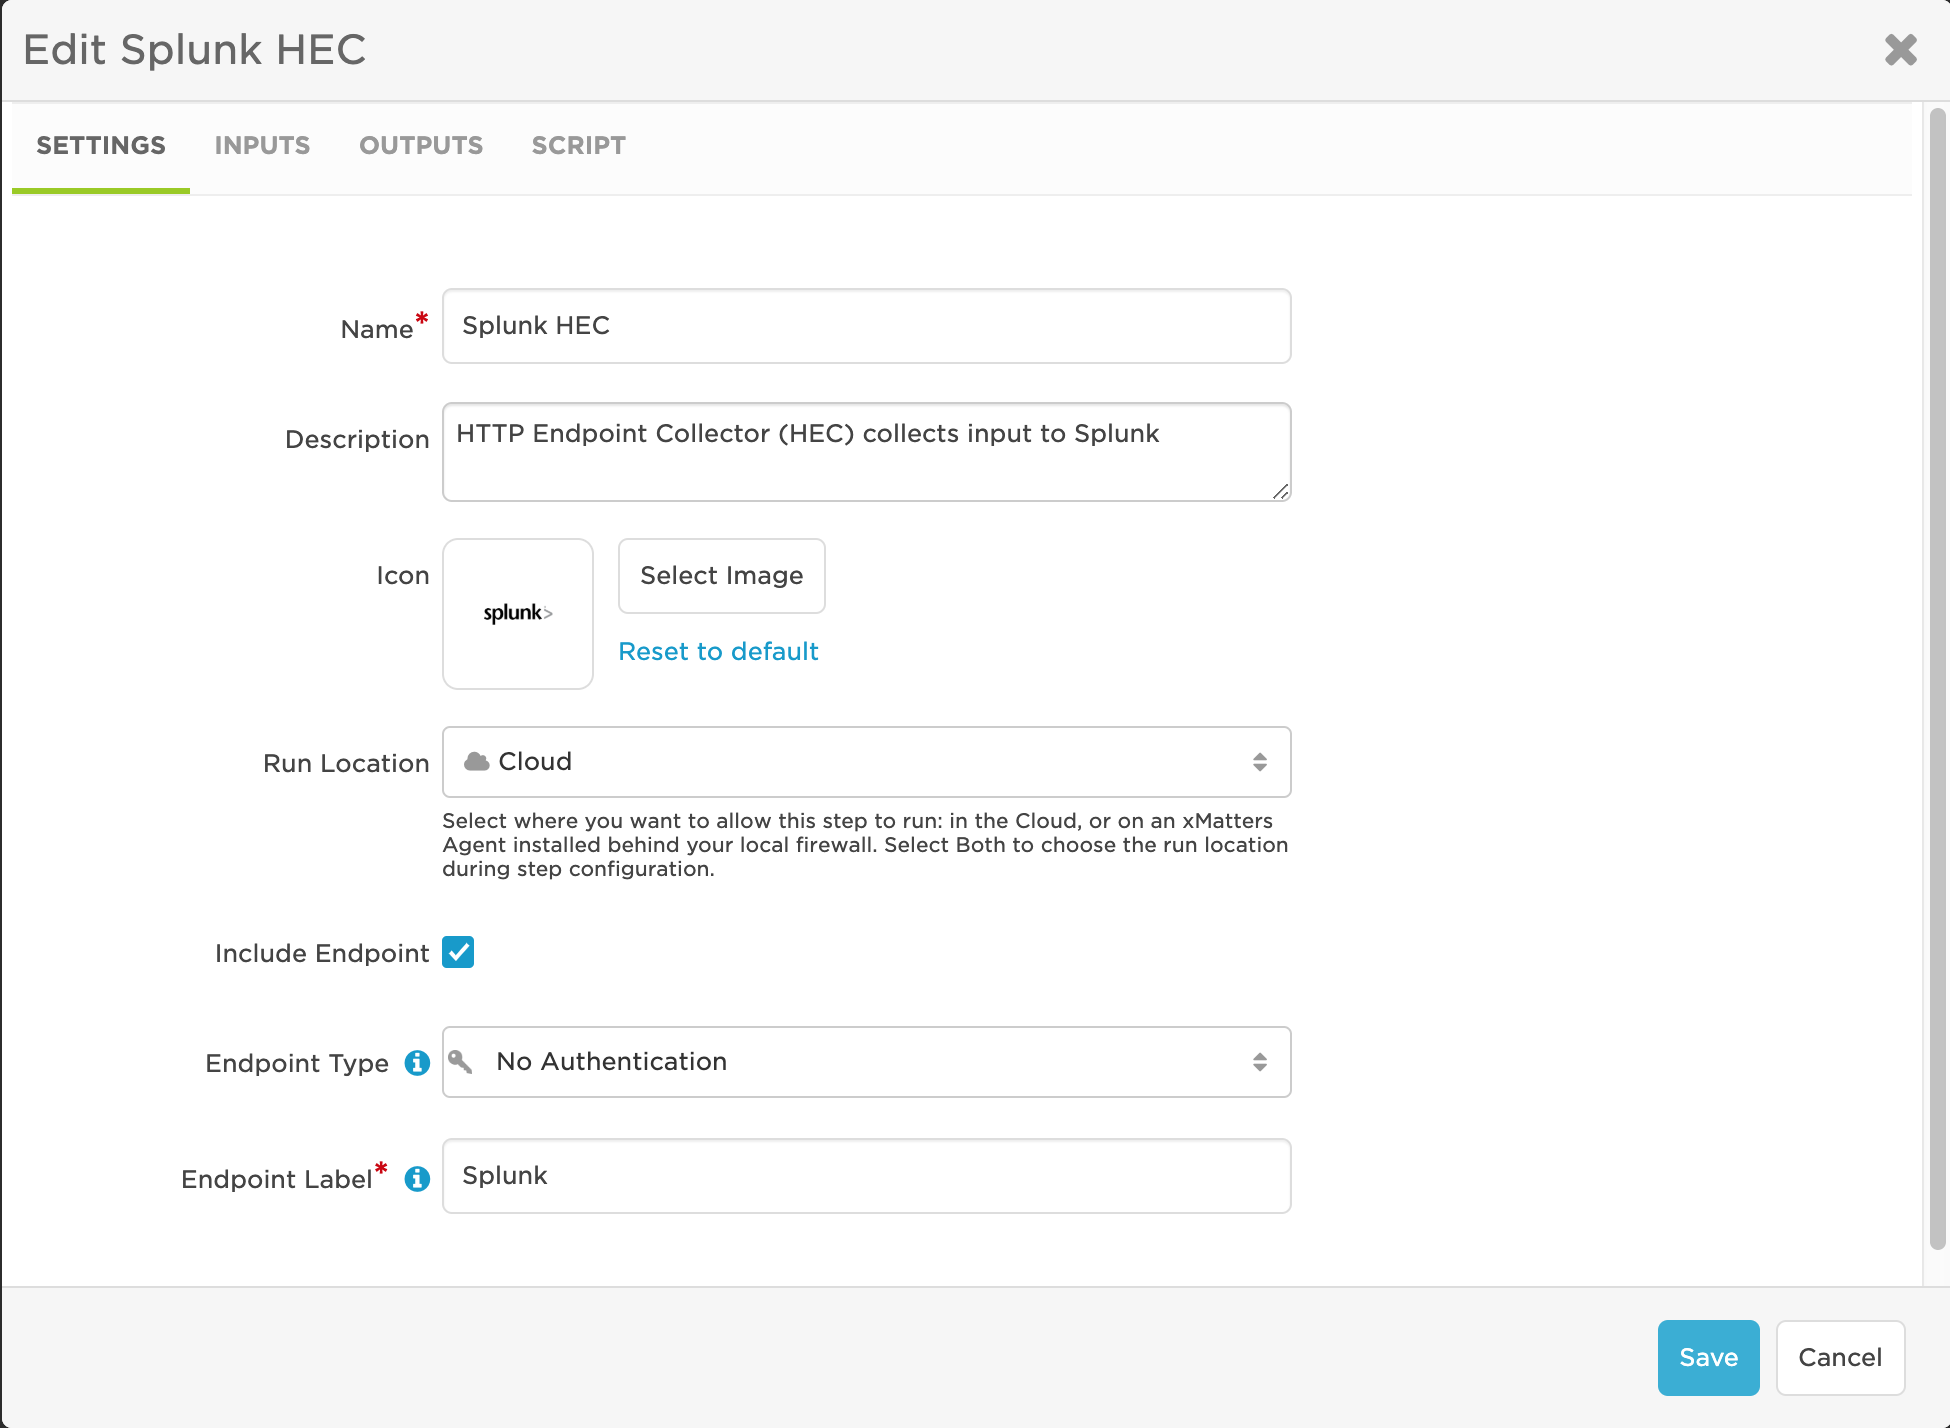
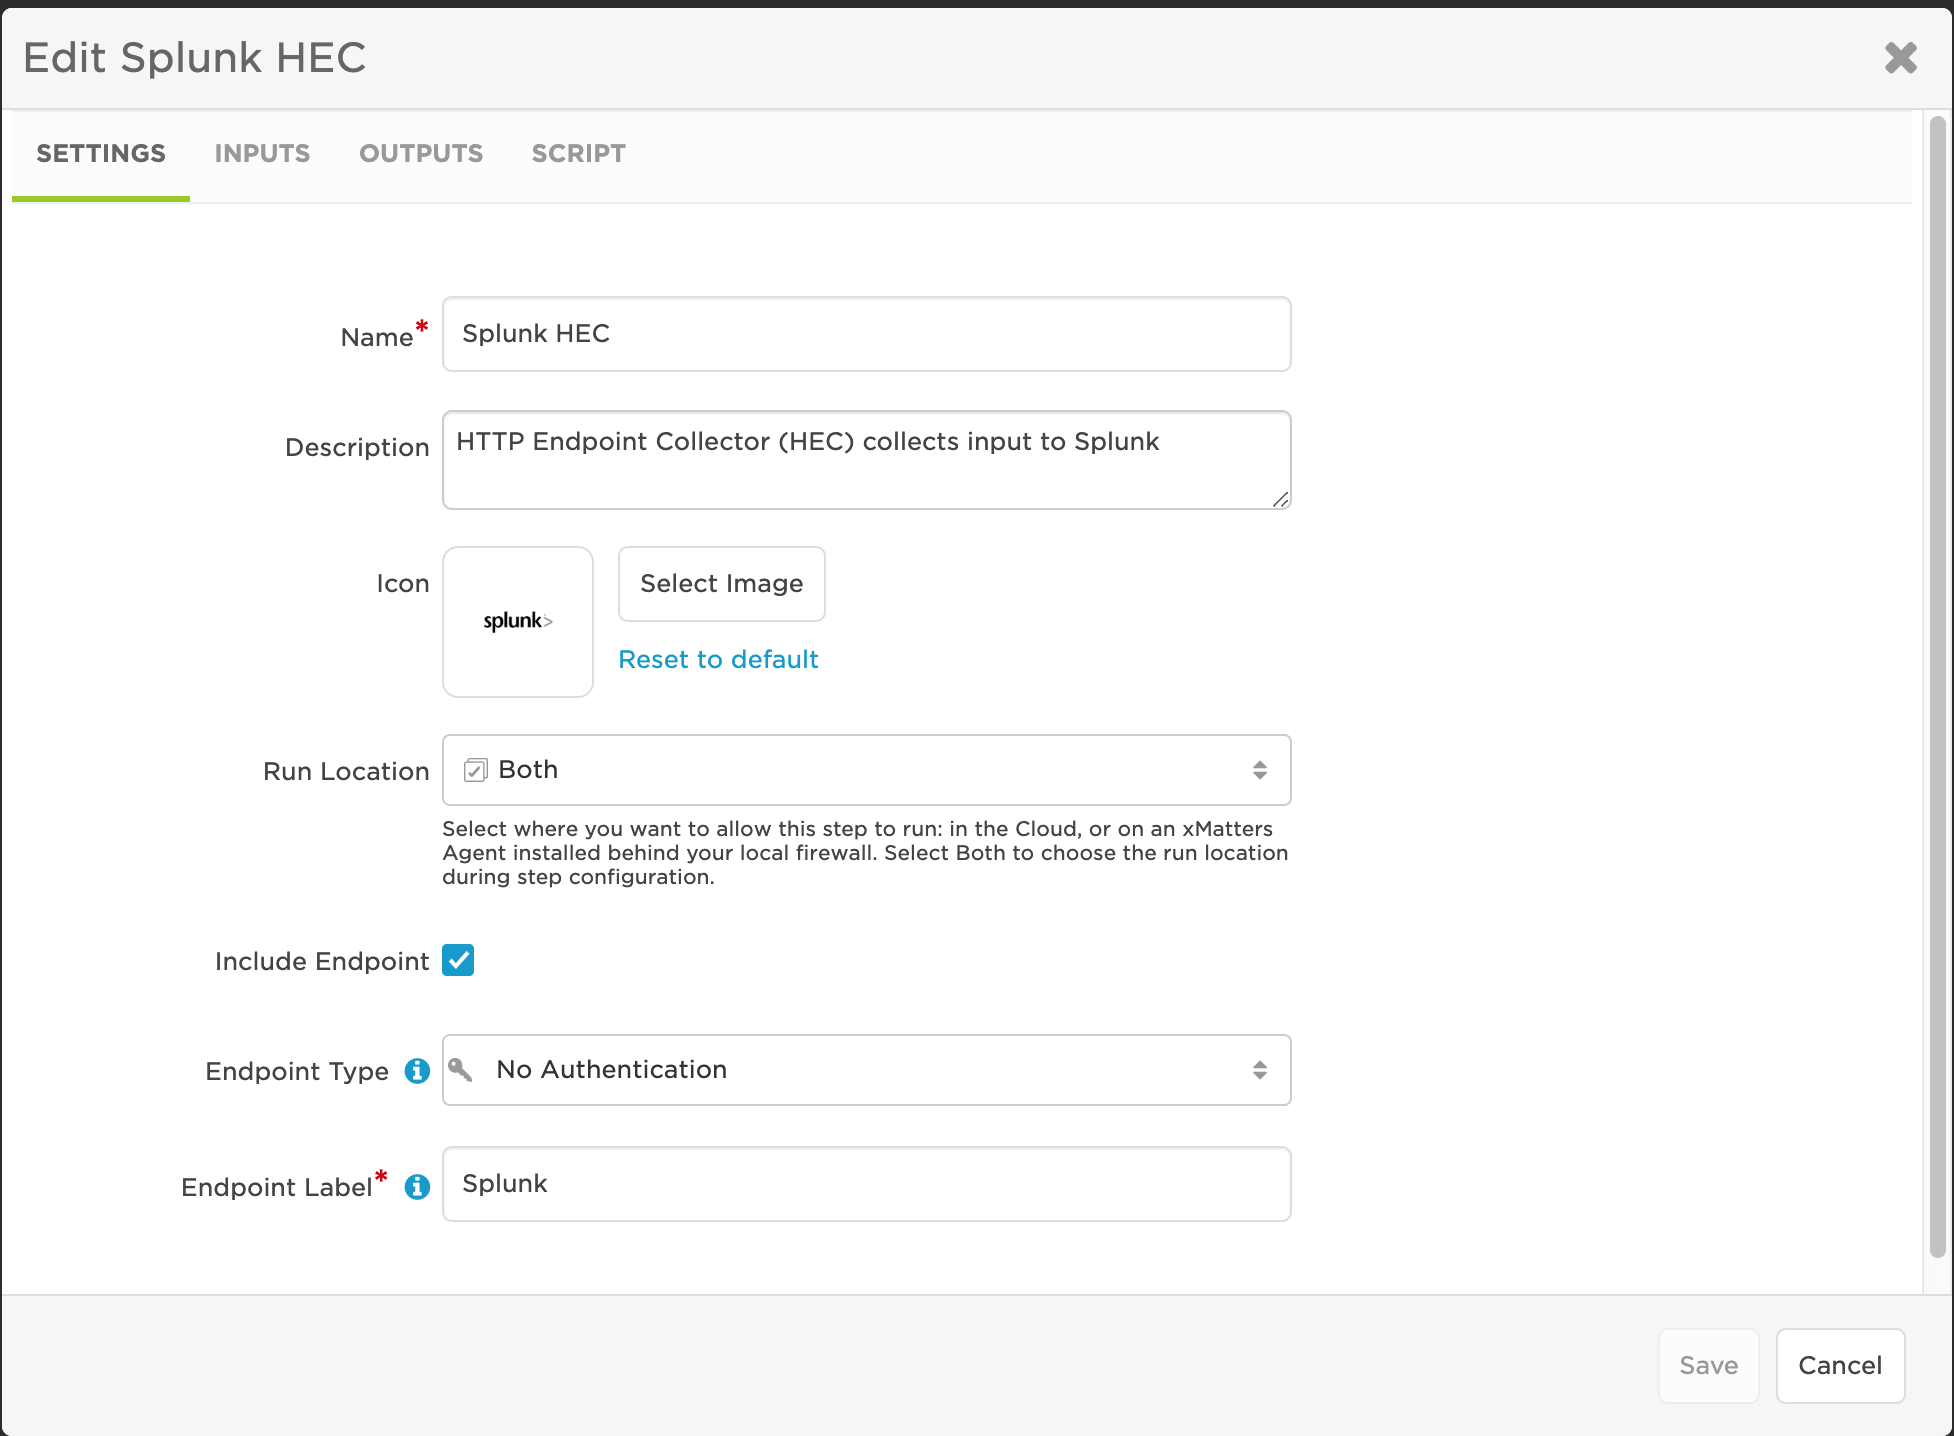
Finished README and added screenshots

diff --git a/README.md b/README.md
@@ -3,7 +3,7 @@ This step ships event data to the HTTP Event Collector in Splunk, enabling compl
 Using the data sent from xMatters, you can build dashboards such as this one:
 
 <kbd>
-  <img src="/media/Dashboard.png" />
+  <img src="/media/Dashboard.png" width=500 />
 </kbd>
 [Source](xMattersDashboard.xml)
 
@@ -29,13 +29,13 @@ The source type is a way for Splunk to categorize and format the data being inge
 Login to Splunk and click the Settings menu in the upper left, then head over to the Source Types. 
 
 <kbd>
-  <img src="/media/SourceType.png" />
+  <img src="/media/SourceType.png" width=500 />
 </kbd>
 
 Create a new Source Type called `xmatters_events`, give it a description and hit Save.
 
 <kbd>
-  <img src="/media/SourceType1.png" />
+  <img src="/media/SourceType1.png" width=500 />
 </kbd>
 
 
@@ -48,19 +48,19 @@ This step may or may not be needed in a customer environment as they might have 
 Click the Splunk logo again and click Data inputs.  
 
 <kbd>
-  <img src="/media/DataInputs.png">
+  <img src="/media/DataInputs.png" width=500 />
 </kbd>
 
 Splunk shows us all the different modes it can ingest data which are cool, but we want HTTP. We need to make sure it is enabled, so click the **HTTP Event Collector**: 
 
 <kbd>
-  <img src="/media/HECInput.png" />
+  <img src="/media/HECInput.png" width=500 />
 </kbd>
     
 And if you see an angry badge, it indicates the Collector is disabled globally. This can be cleared up by clicking the Global Settings button which conveniently shows the Global Settings dialog. Click the Enabled toggle to enable the HTTP collector and then click Save.  
 
 <kbd>
-  <img src="/media/GlobalSettings.png" />
+  <img src="/media/GlobalSettings.png" width=500 />
 </kbd>
 
 
@@ -69,42 +69,42 @@ And if you see an angry badge, it indicates the Collector is disabled globally. 
 Now, we need to actually add the Collector, so click the **Add new** link next to HTTP Event Collector list.  
 
 <kbd>
-  <img src="/media/HECInput.png" />
+  <img src="/media/HECInput.png" width=500 />
 </kbd>
 
 The wizard will walk you through the setup.
 
 <kbd>
-  <img src="/media/HECWiz1.png" />
+  <img src="/media/HECWiz1.png" width=500 />
 </kbd>  
 
 Select the `xmatters_events` source type we created before in the Input Settings dialog 
 
 <kbd>
-  <img src="/media/HECWiz2.png" />
+  <img src="/media/HECWiz2.png" width=500 />
 </kbd>
 
 Review and Submit. A token value will be displayed. Copy this value with care, it is a password.
 
 <kbd>
-  <img src="/media/HECWiz4.png" />
+  <img src="/media/HECWiz4.png" width=500 />
 </kbd>
 
 ## Create Dashboard (optional)
 This step is for creating the default dashboard that can serve as an example on how to query for the Splunk data. 
 Navigate over to the Search & Reporting App in Splunk. Then find the Dashboards button and click Create New Dashboard
 <kbd>
-  <img src="/media/NewDashboard.png" />
+  <img src="/media/NewDashboard.png" width=500 />
 </kbd>
 Give it a good name and a description. Seriously, all your friends will thank you. Especially if you share the dashboard with them. 
 
 <kbd>
-  <img src="/media/NewDashboard1.png" />
+  <img src="/media/NewDashboard1.png" width=500 />
 </kbd>
 There is a helpful wizard for adding panels and such, but I took care of that for you. So just click the Source button, remove all the text there and paste in the [SplunkDashboard.xml](xMattersDashboard.xml) file. 
 
 <kbd>
-  <img src="/media/DashboardSource.png" />
+  <img src="/media/DashboardSource.png" width=500 />
 </kbd>
 
 Clicking the Save button will execute the searches and display the results which will all be empty for now because we haven't added any data.  
@@ -122,7 +122,7 @@ The triggers don’t have all the data we want to send to Splunk, so we’re goi
 In the canvas, click Create a custom action and give it a useful name like **GET event payload**. Add the rest of the details like below. Note that we’ll be using the xMatters endpoint, which is marked as No Authentication in the backend apparently. 
 
 <kbd>
-  <img src="/media/GetEventPayload1.png" />
+  <img src="/media/GetEventPayload1.png" width=500 />
 </kbd>
 
 ### Inputs
@@ -184,11 +184,12 @@ if (response.statusCode == 200 ) {
 
 
 ## Splunk HEC
-This step is where we get to actually send the data out to Splunk. Create a new custom step called “Splunk HEC” like below. The logo file is attached in the email as splunk-thumb.png. Note again we select No Authentication as the endpoint type, but in this case it is because the token used to authenticate will be passed as an input. 
+This step is where we get to actually send the data out to Splunk. Create a new custom step called “Splunk HEC” like below. The logo file is attached in the email as splunk-thumb.png. Note again we select No Authentication as the endpoint type, but in this case it is because the token used to authenticate will be passed as an input. Also note that we select `Both` for the Run Location so that our users can execute this step in the Cloud or in an Agent depending on how xMatters will access Splunk.
 
-Splunk Logo [here](SplunkLogo.png)
+Splunk Logo available [here](SplunkLogo.png)
+
 <kbd>
-  <img src="/media/SplunkSettings.png" />
+  <img src="/media/SplunkSettings.png" width=500 />
 </kbd>
 
 
@@ -196,39 +197,100 @@ Splunk Logo [here](SplunkLogo.png)
 
 | Name  | Required? | Min | Max | Help Text | Default Value | Multiline |
 | ----- | ----------| --- | --- | --------- | ------------- | --------- |
-| Name  | Yes | 0 | 2000 | This is the color of the hat to create | Blue | No |
-| Color | No | 0 | 2000 | The major color of the hat. Possible values are Red, White, Blue | Blue | No |
+| HEC Token | Yes | 0 | 2000 | The token for authenticating into the Splunk HTTP Event Collector | | |
+| Source Type | Yes | 0 | 2000 | The name of the Splunk source type for this data. | xmatters_events |
+| eventJSON | 0 | 20000 | A string of the JSON response to the GET /event/UUID XMAPI call. | | |
+
 
 
 ### Outputs
 
 | Name |
 | ---- |
-| Hat |
-| Link |
+| Splunk Response |
 
 ### Script
 
 ```javascript
-// Retrieve the name and color values
-var name = input['Name'];
-var color = input['Color'];
 
-// Make the request
-var req = http.request({
-   "endpoint": "Hat Factory",
-   "path": "/hat",
-   "method": "POST",
-   "headers": {
-      "Content-Type": "application/json"
-   }
+// Build the Splunk request object. Note the Authorization header
+var request = http.request({ 
+    "endpoint": "Splunk",
+    "path": "/services/collector/event",
+    "method": "POST",
+    'headers': {
+        'Content-Type': 'application/json',
+        'Authorization': 'Splunk ' + input['HEC Token']
+    }
 });
 
-var hatPayload = {
-   "name": name,
-   "color": color
+// Grab the event payload
+var eventJSON = JSON.parse( input['eventJSON'] );
+
+// Build the Splunk payload and mark it with the sourcetype
+var data = {
+    "sourcetype": input['Source Type'],
+    "event":      eventJSON
 };
 
-var resp = req.write( hatPayload );
+// Fire in the hole!
+var response = request.write( data );
+
 
 ```
+
+
+# Constants
+Adding a constant to hold the token value means you don't have to type it in every time you want to use it. This way, you just drag the constant in as an input to the Splunk step. 
+Exit the flow designer and head over to the integration builder and click the **Edit Constants** button and paste in the value from above and hit **Save Changes**. 
+
+<kbd>
+  <img src="/media/Constant.png" width=500 />
+</kbd>
+
+# Usage
+The design of these steps is such that using the event status trigger is best. This will ensure you have the initial event data as soon as it happens, and then **all** of the response and notification data. Using other triggers may be possible depending on what information you need to get and when. 
+
+Drag the event status trigger, the get event payload step and the Splunk HEC step onto the canvas and hook them up in order:
+
+<kbd>
+  <img src="/media/Flow1.png" />
+</kbd>
+
+Then double click on the get events step and drag in the inputs like so:
+
+<kbd>
+  <img src="/media/Flow-setup1.png" width=300 />
+</kbd>
+
+On the endpoint tab, select the xMatters endpoint
+
+<kbd>
+  <img src="/media/Flow-setup2.png" width=300 />
+</kbd>
+
+
+Then, double click on the Splunk HEC step and map the inputs, pulling the token from the Constants section and the eventJSON from the Get Event Payload step like so:
+
+<kbd>
+  <img src="/media/Flow-setup3.png" width=300 />
+</kbd>
+
+On the Run Location tab, make the appropriate selection depending on how xMatters will access your Splunk environment. If you are running Splunk in the cloud or have an open firewall connection, then select Cloud. Otherwise, select an xMatters Agent that will have access to Splunk. 
+
+<kbd>
+  <img src="/media/Flow-setup3.5.png" width=300 />
+</kbd>
+
+
+On the endpoint tab, create a new endpoint called Splunk HEC and the Base URL will be the url of your Splunk hostname prefixed with input- and suffixed by :8088. For example, if your Splunk url is 
+`https://prd-p-cqzf26jjxqbp.cloud.splunk.com`
+Then, your Base URL is:
+`https://input-prd-p-cqzf26jjxqbp.cloud.splunk.com:8088`
+One last thing, for these new Splunk cloud instances, you will need to check the Trust Self Signed Certificates in the endpoint. Likely you won’t have to for a customer’s environment. 
+Altogether, it should look like this:
+
+<kbd>
+  <img src="/media/Flow-setup4.png" width=300 />
+</kbd>
+
